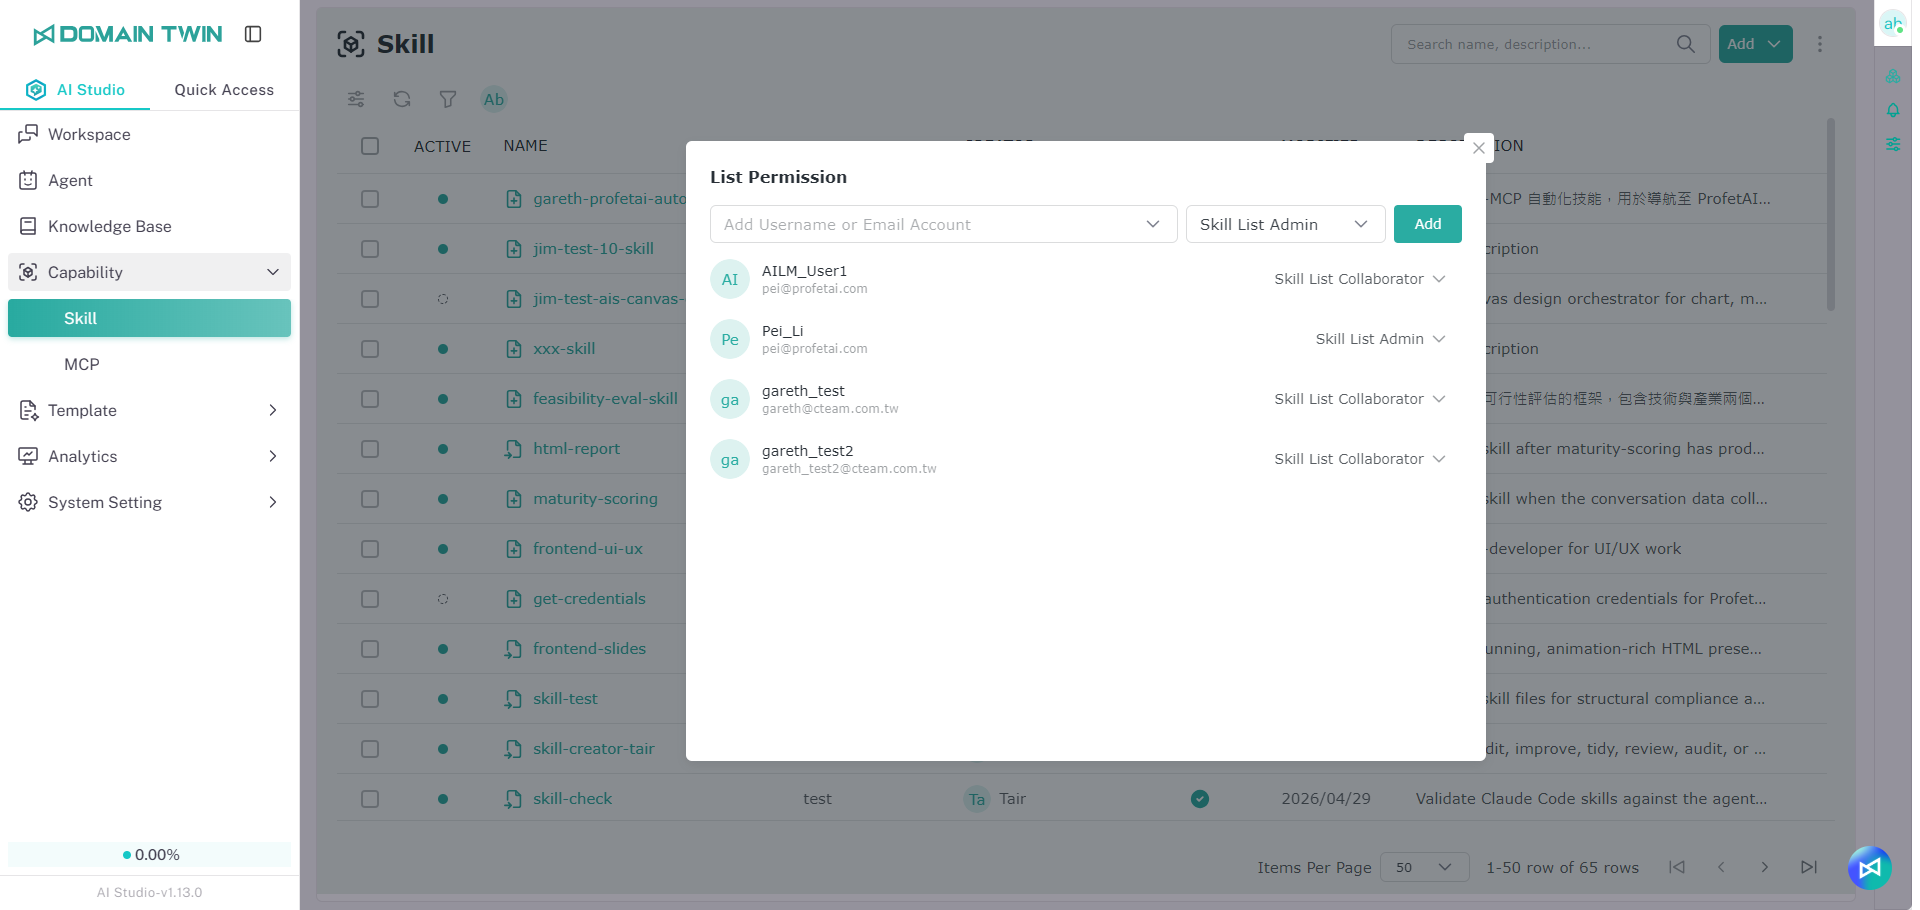
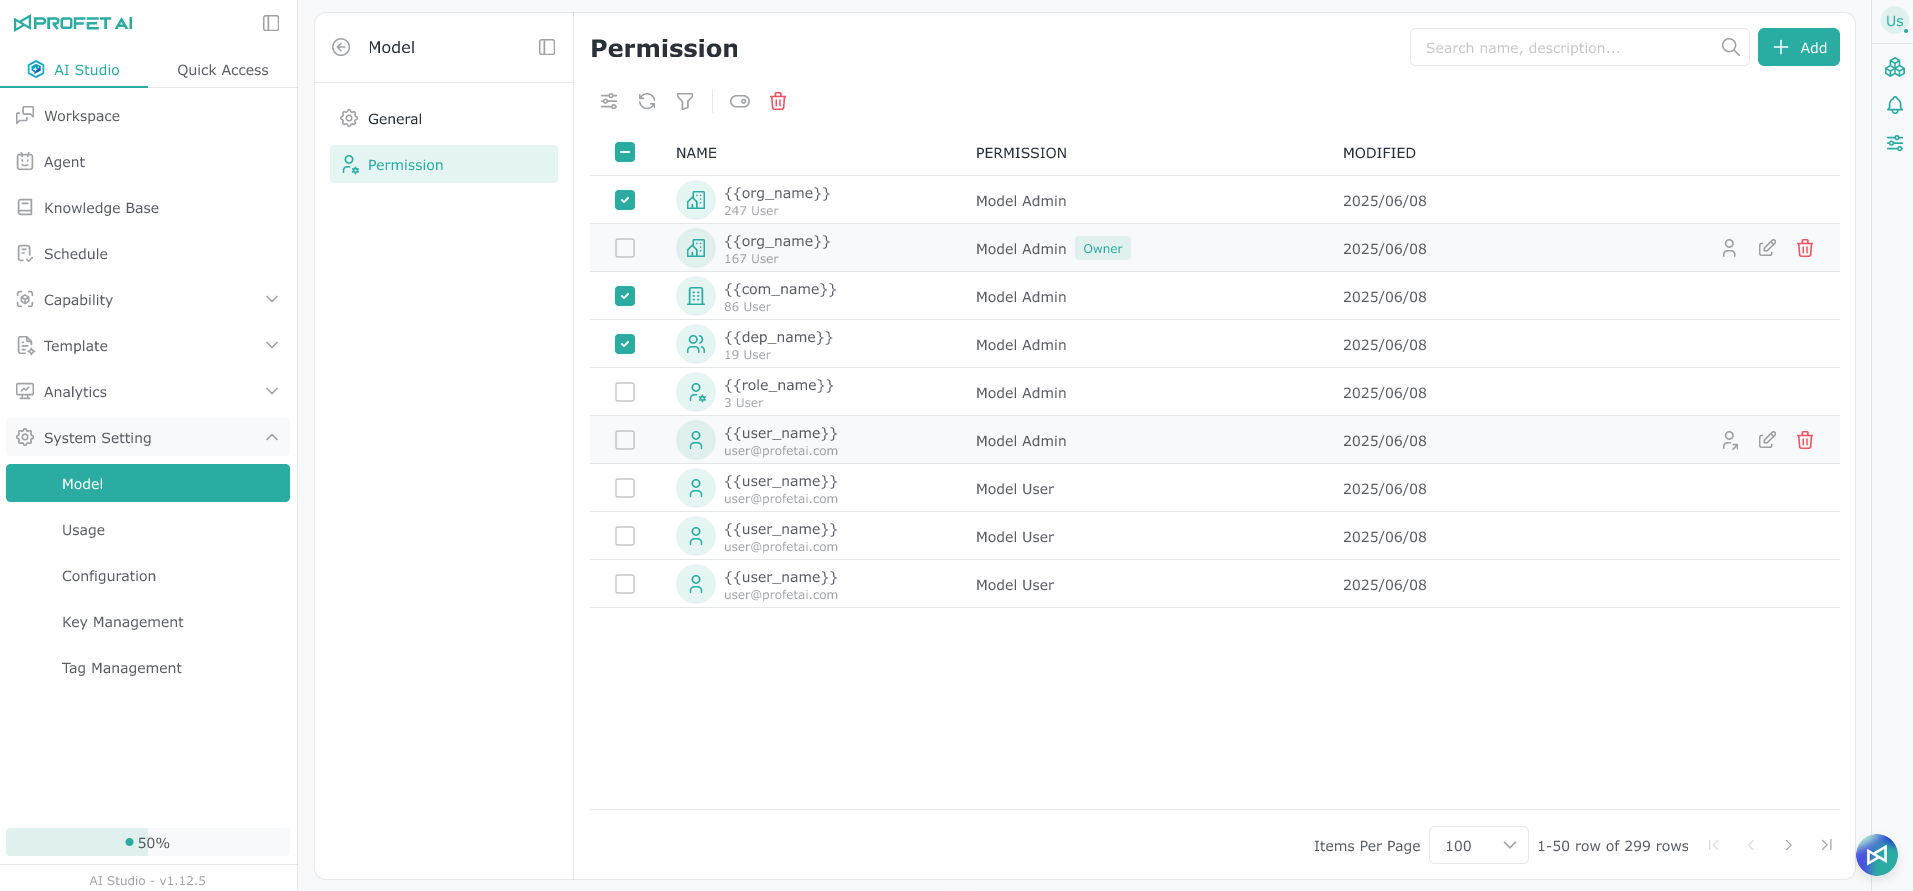
GITBOOK-11: No subject

diff --git a/en/ru-men-zhi-nan/quan-xian-gong-neng-jie-shao.md b/en/ru-men-zhi-nan/quan-xian-gong-neng-jie-shao.md
@@ -142,3 +142,11 @@ The following table describes what can be done at the "prompt word template" lev
 <figure><img src="../.gitbook/assets/image (120).png" alt=""><figcaption></figcaption></figure>
 
 <table data-full-width="true"><thead><tr><th>Role</th><th>Prompt word template manager</th><th>Prompt Word Template Collaborator</th><th>Prompt word template user</th></tr></thead><tbody><tr><td><strong>illustrate</strong></td><td>Have complete control over prompt word templates</td><td>Can assist in managing the content adjustment of prompt word templates</td><td>Only roles that can read prompt word templates</td></tr><tr><td><strong>Prompt word templates available in workspaces</strong></td><td>O</td><td>O</td><td>O</td></tr><tr><td><strong>View cue words in the cue word list</strong></td><td>O</td><td>O</td><td>X</td></tr><tr><td><strong>Set prompt word template members</strong></td><td>O</td><td>X</td><td>X</td></tr><tr><td><strong>Edit Prompt Word Template</strong></td><td>O</td><td>O</td><td>X</td></tr><tr><td><strong>Delete prompt word template</strong></td><td>O</td><td>X</td><td>X</td></tr></tbody></table>
+
+## Model Function Permissions
+
+The table below describes what each role can do at the model level. This layer is usually managed by Model Admins, who assign the appropriate permissions to collaborators or users.
+
+<figure><img src="../.gitbook/assets/image (284).png" alt=""><figcaption></figcaption></figure>
+
+<table data-full-width="true"><thead><tr><th>Role</th><th>Model Admin</th><th>Model User</th></tr></thead><tbody><tr><td><strong>Description</strong></td><td>Has full control over models</td><td>Can only use assigned models</td></tr><tr><td><strong>Use models in Agents within the workspace</strong></td><td>O</td><td>O</td></tr><tr><td><strong>Select models from the model list</strong></td><td>O</td><td>X</td></tr><tr><td><strong>Edit models</strong></td><td>O</td><td>X</td></tr><tr><td><strong>Delete models</strong></td><td>O</td><td>X</td></tr></tbody></table>
